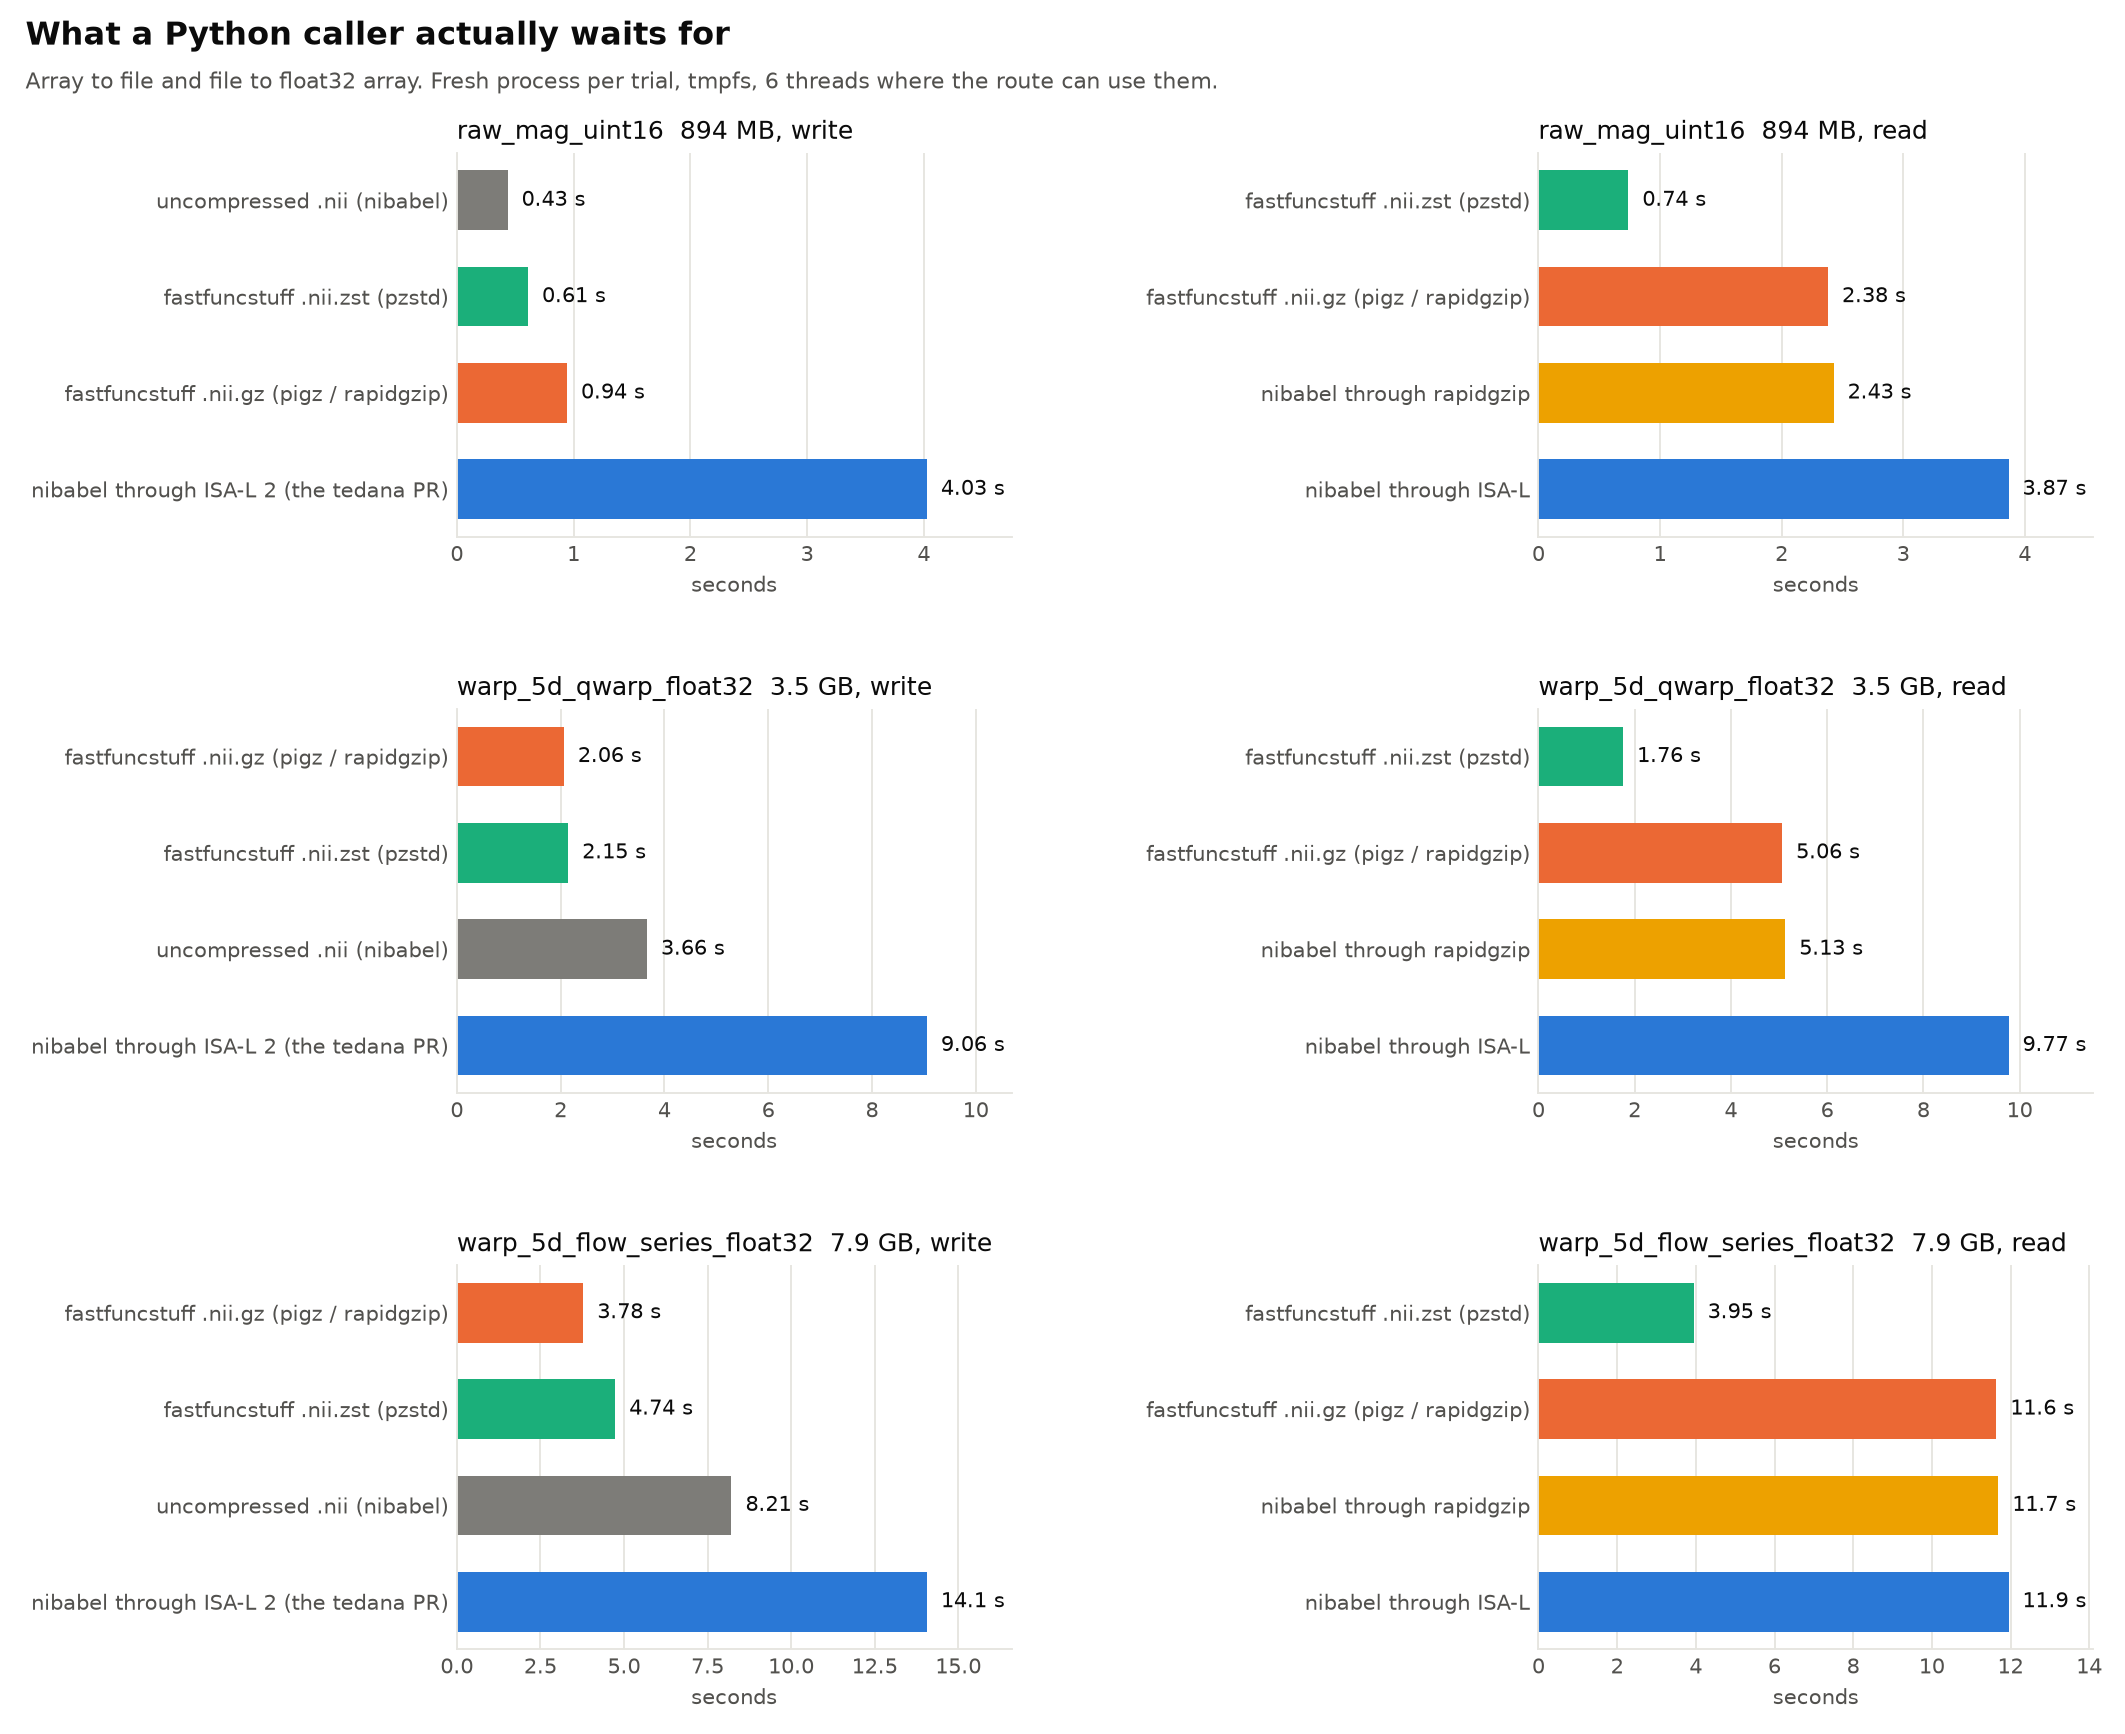
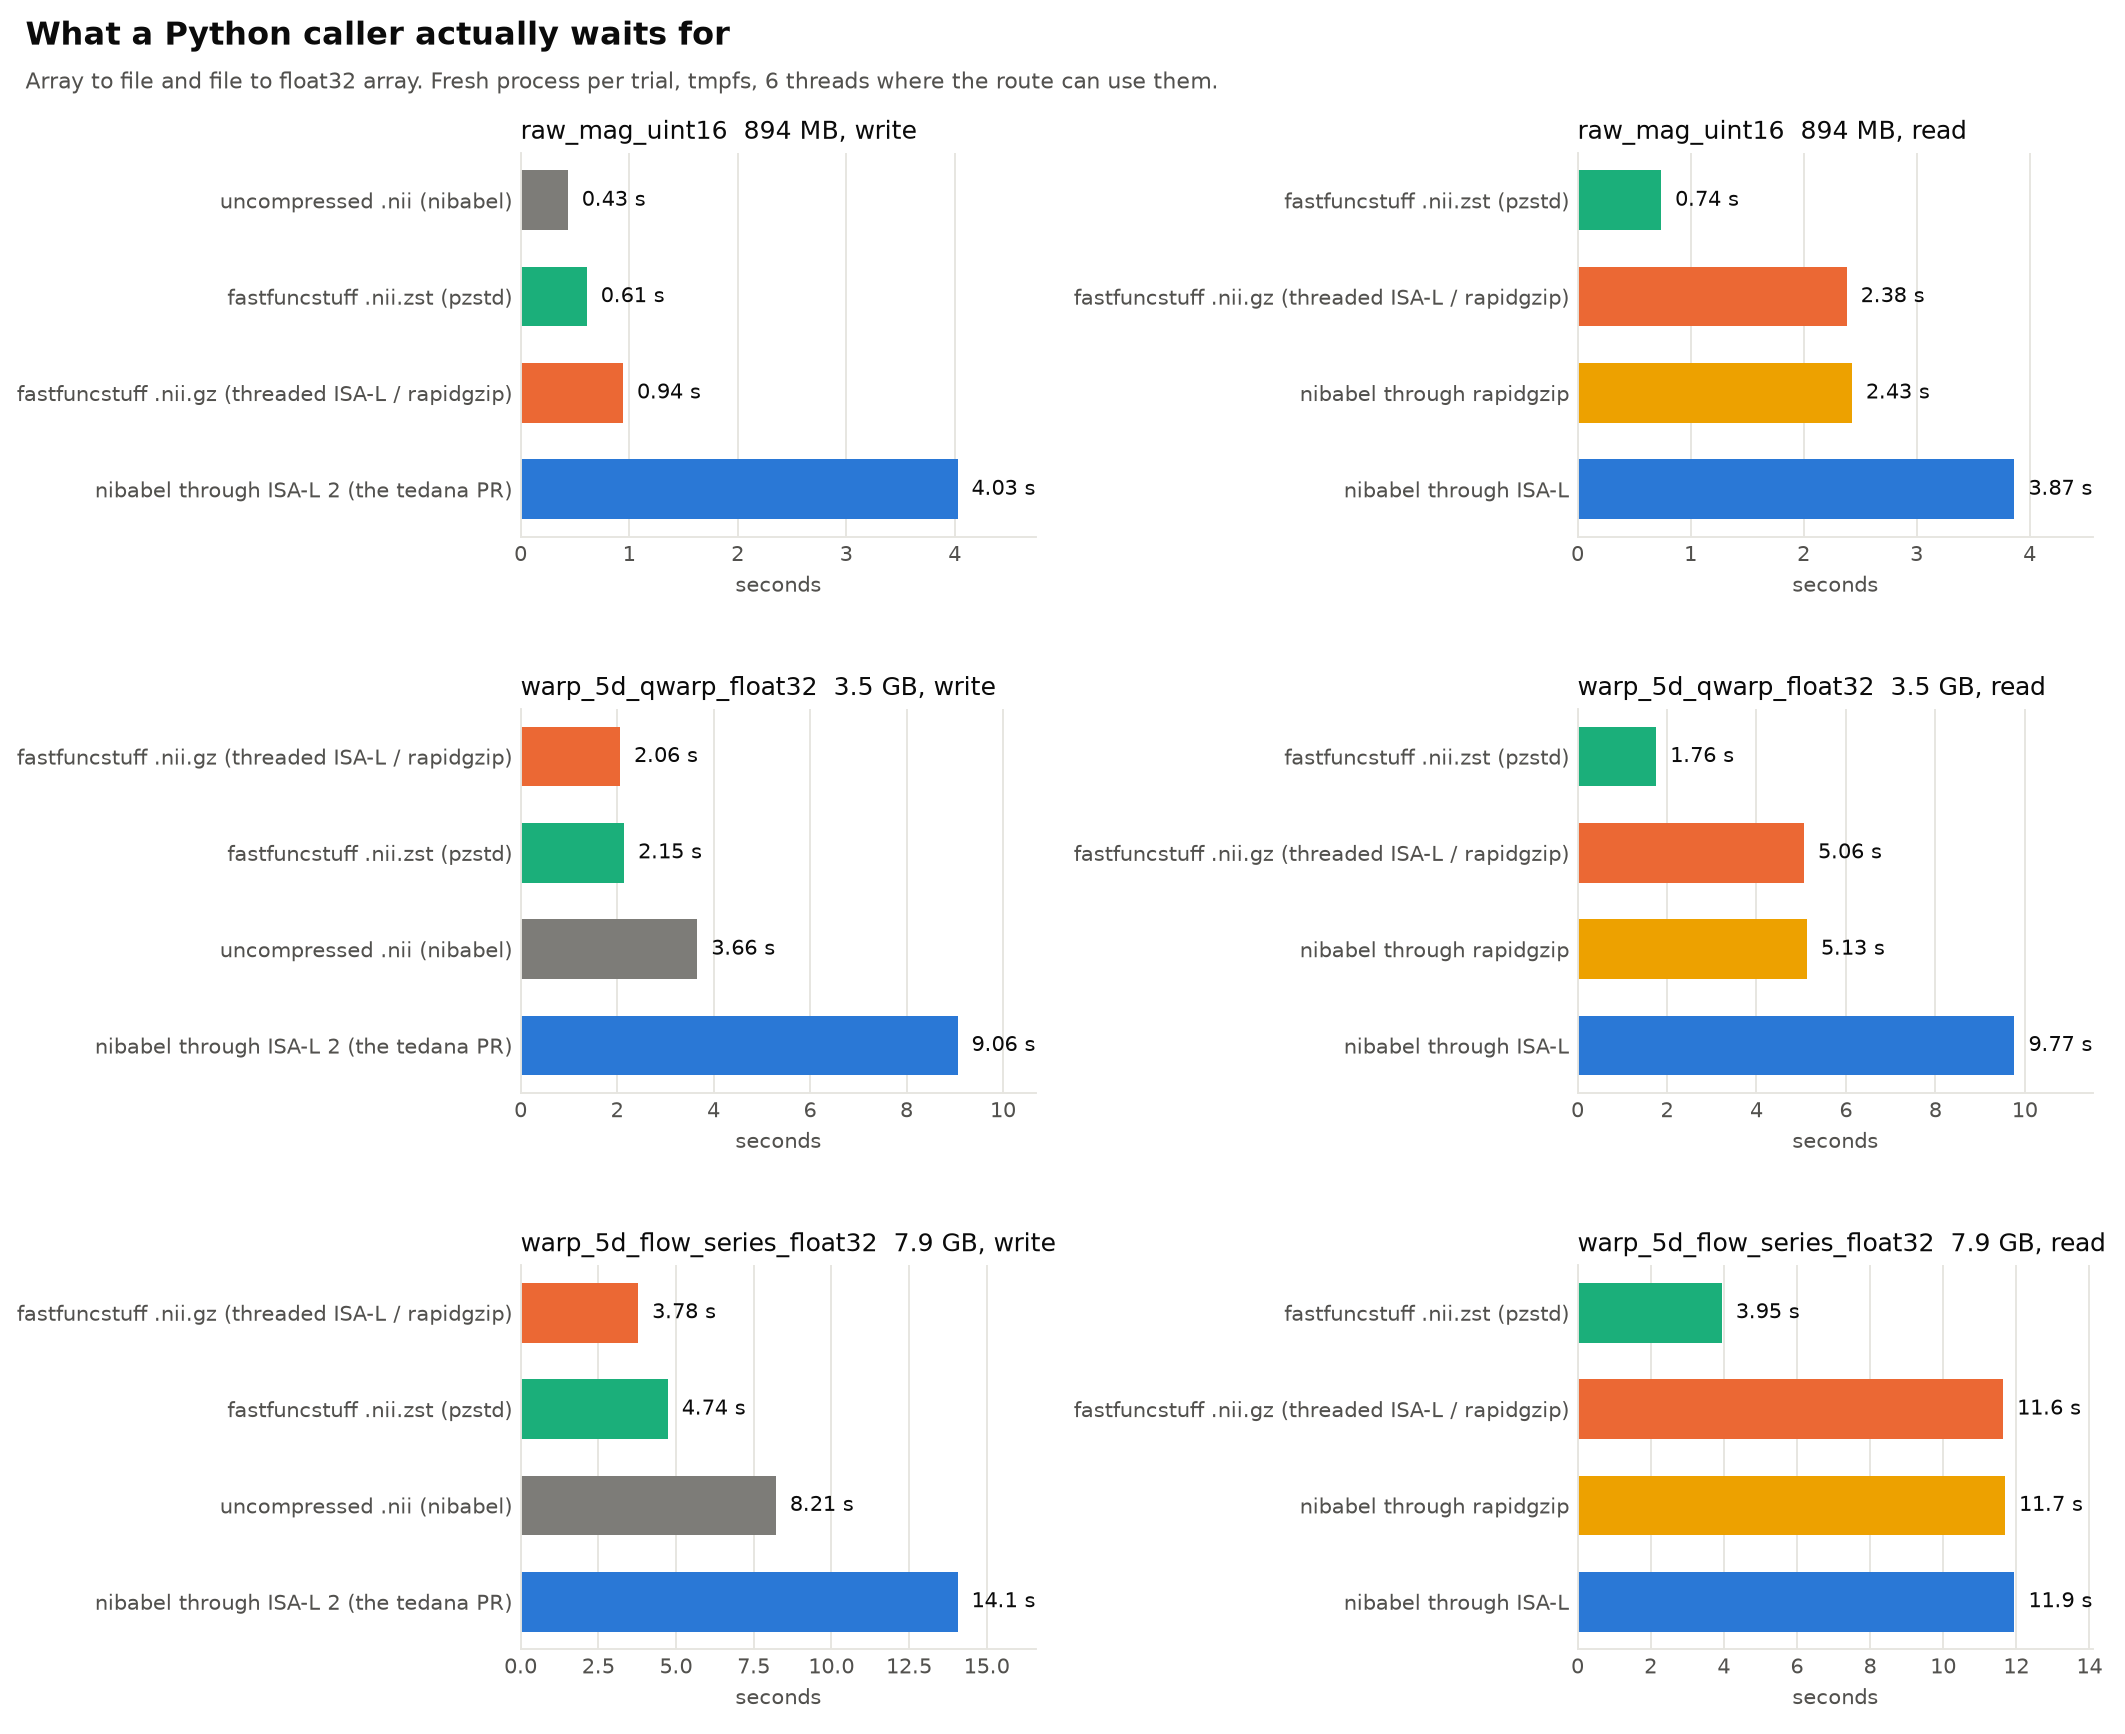
Label the toolbox .nii.gz route as threaded ISA-L in fig4
save_nifti has written .nii.gz through threaded ISA-L since 6010c88f,
but fig4 still called the route "pigz / rapidgzip". The point of the
figure is zst against ISA-L, so the label has to say which ISA-L the
orange bar is. Widen the left margin to fit the longer name, and
redraw fig4 for both machines from their saved CSVs.

Claude-Session: https://claude.ai/code/session_01N3icDKgjMaK4vCjPnse7DA

diff --git a/scripts/bench_nifti_compression.py b/scripts/bench_nifti_compression.py
@@ -1051,7 +1051,7 @@ ROUTE_NAME = {
     "nibabel-isal2": "nibabel through ISA-L 2 (the tedana PR)",
     "nibabel-isal": "nibabel through ISA-L",
     "nibabel-rapidgzip": "nibabel through rapidgzip",
-    "ffs-gz": "fastfuncstuff .nii.gz (pigz / rapidgzip)",
+    "ffs-gz": "fastfuncstuff .nii.gz (threaded ISA-L / rapidgzip)",
     "ffs-zst": "fastfuncstuff .nii.zst (pzstd)",
 }
 ROUTE_COLOR = {
@@ -1642,7 +1642,7 @@ def make_all(results: Path) -> None:
                     color=INK,
                 )
         fig.subplots_adjust(
-            top=1 - 0.9 / h, bottom=0.5 / h, left=0.215, right=0.985, wspace=0.95, hspace=0.45
+            top=1 - 0.9 / h, bottom=0.5 / h, left=0.245, right=0.985, wspace=1.05, hspace=0.45
         )
         _title(
             fig,
